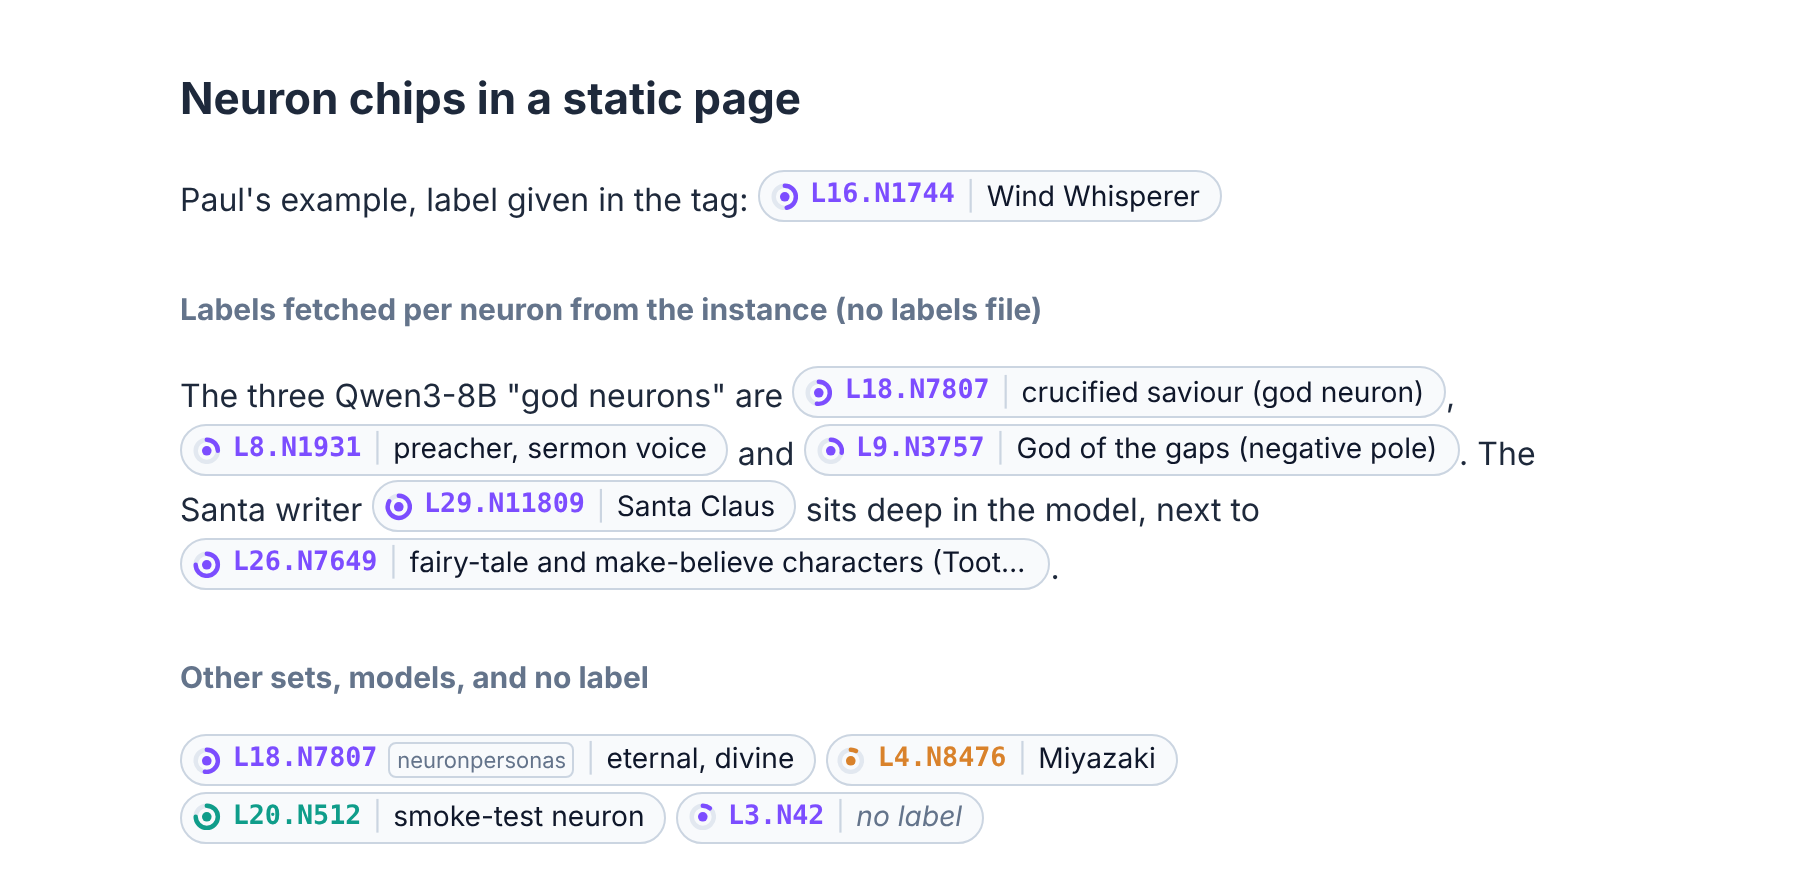
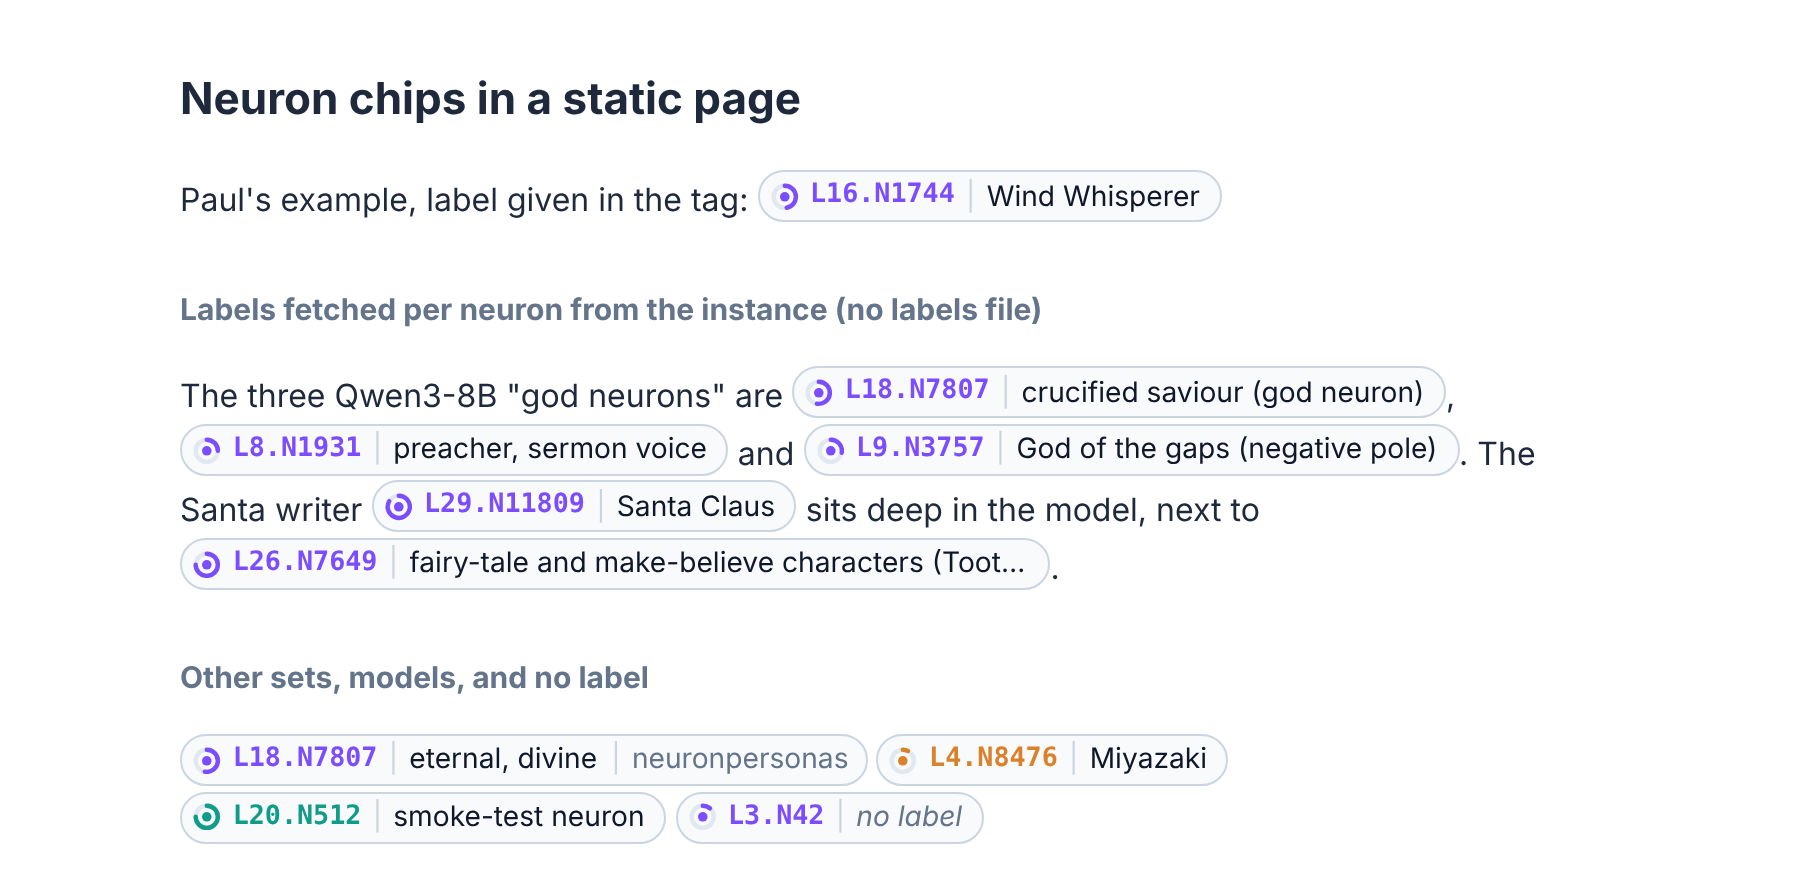
feat(webapp): neuron chip shows a custom set's name last, ( id | label | set )
Screenshots retaken, with the dark one on a dark page.

Changed region(s): [[0.2178, 0.8284, 0.6844, 0.8898]]

diff --git a/apps/webapp/public/np-neuron.js b/apps/webapp/public/np-neuron.js
@@ -342,7 +342,7 @@
     'svg{flex:none;width:1.05em;height:1.05em}' +
     '.id{font-family:ui-monospace,SFMono-Regular,Menlo,Consolas,monospace;font-size:.95em;font-weight:600;color:var(--np-accent)}' +
     '.sep{color:var(--np-border)}' +
-    '.set{font-size:.78em;color:var(--np-muted);border:1px solid var(--np-border);border-radius:4px;padding:0 .3em}' +
+    '.set{color:var(--np-muted)}' +
     '.label{overflow:hidden;text-overflow:ellipsis;max-width:var(--np-label-max,22em);padding-right:.1em}' +
     '.label.none{color:var(--np-muted);font-style:italic}' +
     '.label.loading{color:var(--np-muted)}';
@@ -483,9 +483,12 @@
     a.setAttribute('aria-label', id + (result.state === 'ok' ? ', ' + result.label : '') + ', ' + spec.model);
     a.appendChild(glyph(depth(layer, layers), color));
     a.appendChild(el('span', { class: 'id', part: 'id' }, id));
-    if (set !== NEURONS_SET) a.appendChild(el('span', { class: 'set', part: 'set' }, set));
     a.appendChild(el('span', { class: 'sep', 'aria-hidden': 'true' }, '|'));
     a.appendChild(el('span', { class: 'label ' + (result.state === 'ok' ? '' : result.state), part: 'label' }, result.label));
+    if (set !== NEURONS_SET) {
+      a.appendChild(el('span', { class: 'sep', 'aria-hidden': 'true' }, '|'));
+      a.appendChild(el('span', { class: 'set', part: 'set' }, set));
+    }
     sr.appendChild(a);
   };
 

diff --git a/apps/webapp/components/neuron-chip.tsx b/apps/webapp/components/neuron-chip.tsx
@@ -95,9 +95,6 @@ export default function NeuronChip({
       <span className="font-mono text-[0.95em] font-semibold" style={{ color }}>
         {id}
       </span>
-      {setName !== NEURONS_SET && (
-        <span className="rounded border border-slate-300 px-1 text-[0.78em] text-slate-500">{setName}</span>
-      )}
       <span className="text-slate-300" aria-hidden="true">
         |
       </span>
@@ -108,6 +105,14 @@ export default function NeuronChip({
       >
         {state === 'ok' ? shown : state === 'none' ? 'no label' : '…'}
       </span>
+      {setName !== NEURONS_SET && (
+        <>
+          <span className="text-slate-300" aria-hidden="true">
+            |
+          </span>
+          <span className="text-slate-500">{setName}</span>
+        </>
+      )}
     </>
   );
   const chipClass = `inline-flex max-w-full items-center gap-[0.4em] whitespace-nowrap rounded-full border border-slate-300 bg-slate-50 py-[0.1em] pl-[0.35em] pr-[0.6em] align-baseline text-[0.88em] leading-normal text-slate-900 no-underline transition-colors hover:border-slate-500 ${

diff --git a/docs/NEURON_CHIP.md b/docs/NEURON_CHIP.md
@@ -8,8 +8,8 @@ A chip names one neuron by its id and its top explanation, and links to the neur
 
 The ring around the dot shows how deep the layer sits in the model (layer 16 of 36 fills about
 half of it), and its colour shows which model it belongs to: Qwen3-0.6B is teal, 8B violet and 32B
-amber, and anything else is grey. A neuron outside the raw `neurons` set shows its set name as a
-tag. Hover for the model, the layer count and the full label.
+amber, and anything else is grey. A neuron outside the raw `neurons` set shows its set name last, as
+in `( L18.N7807 | eternal, divine | neuronpersonas )`. Hover for the model, the layer count and the full label.
 
 There are two versions of the same chip, and both read the same data:
 
